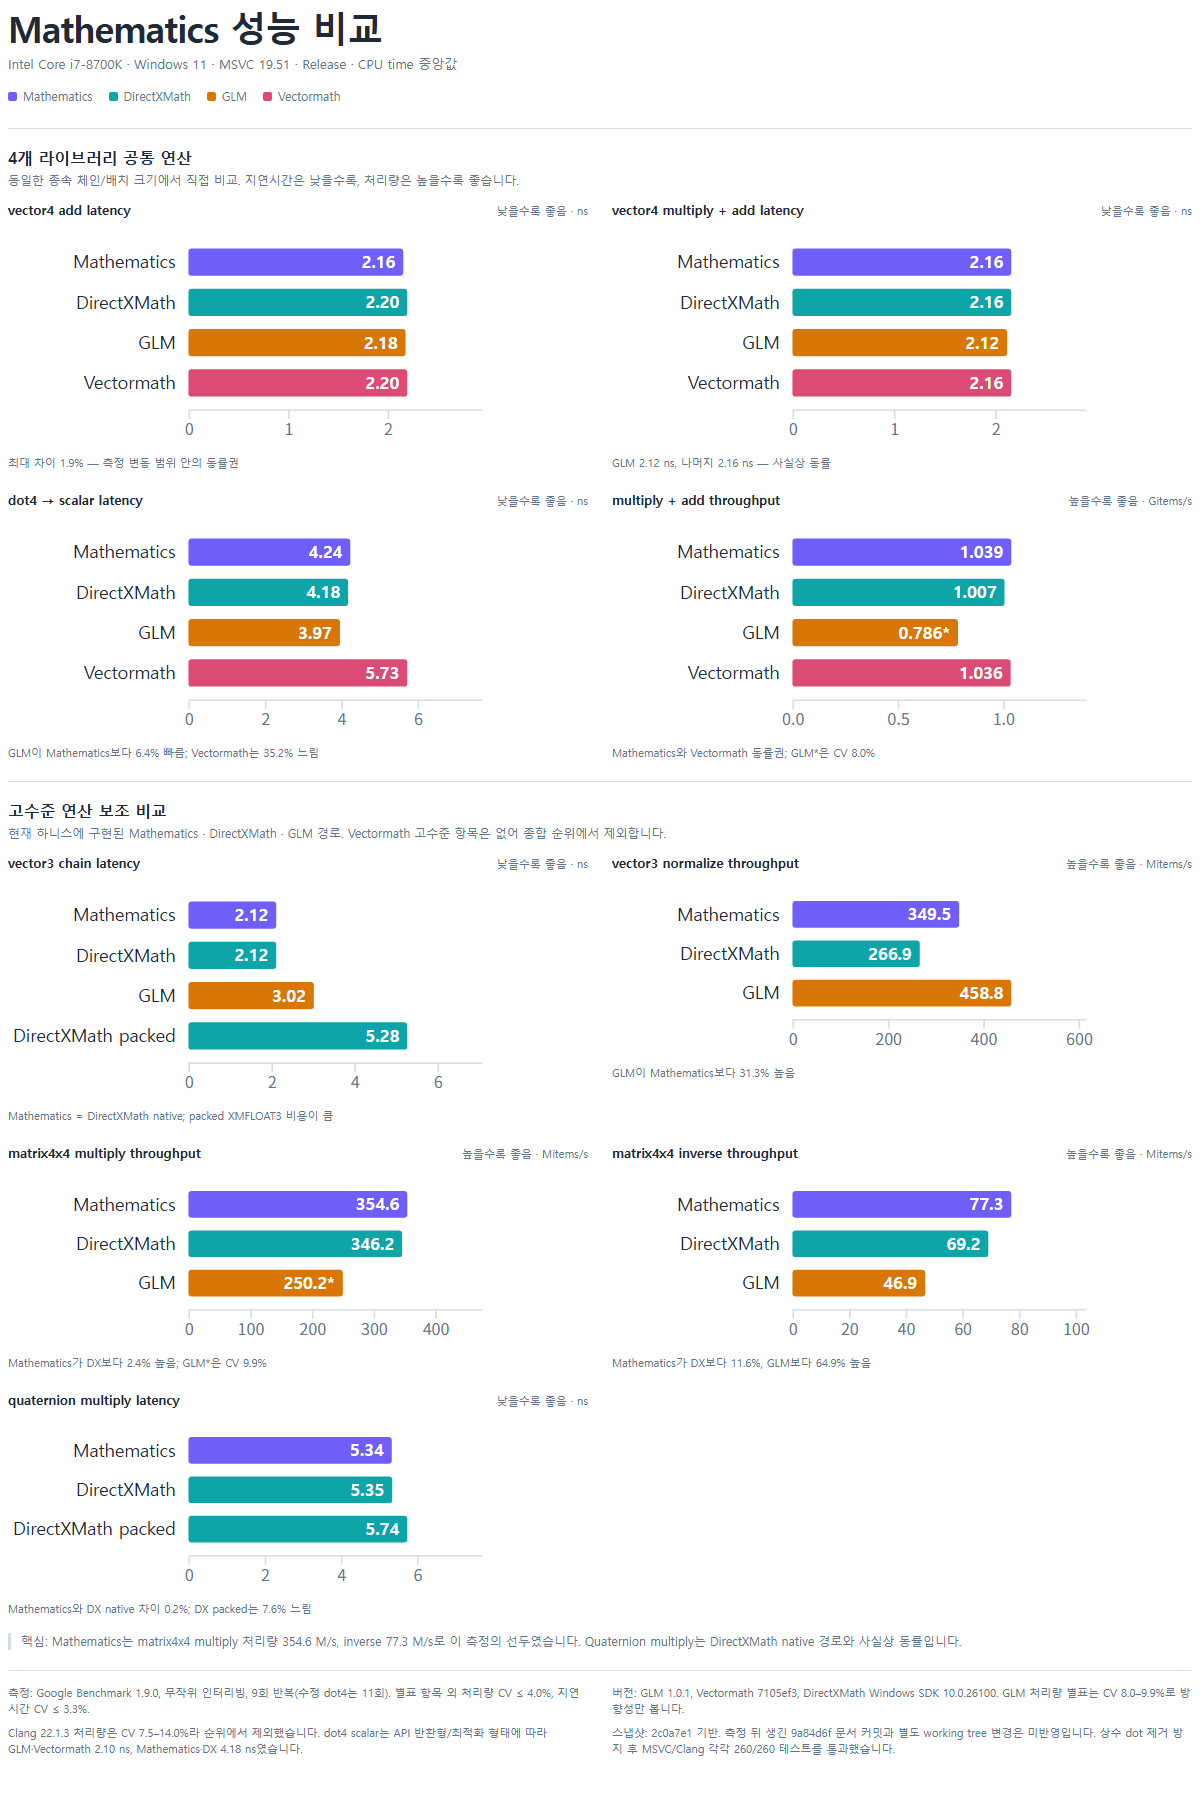
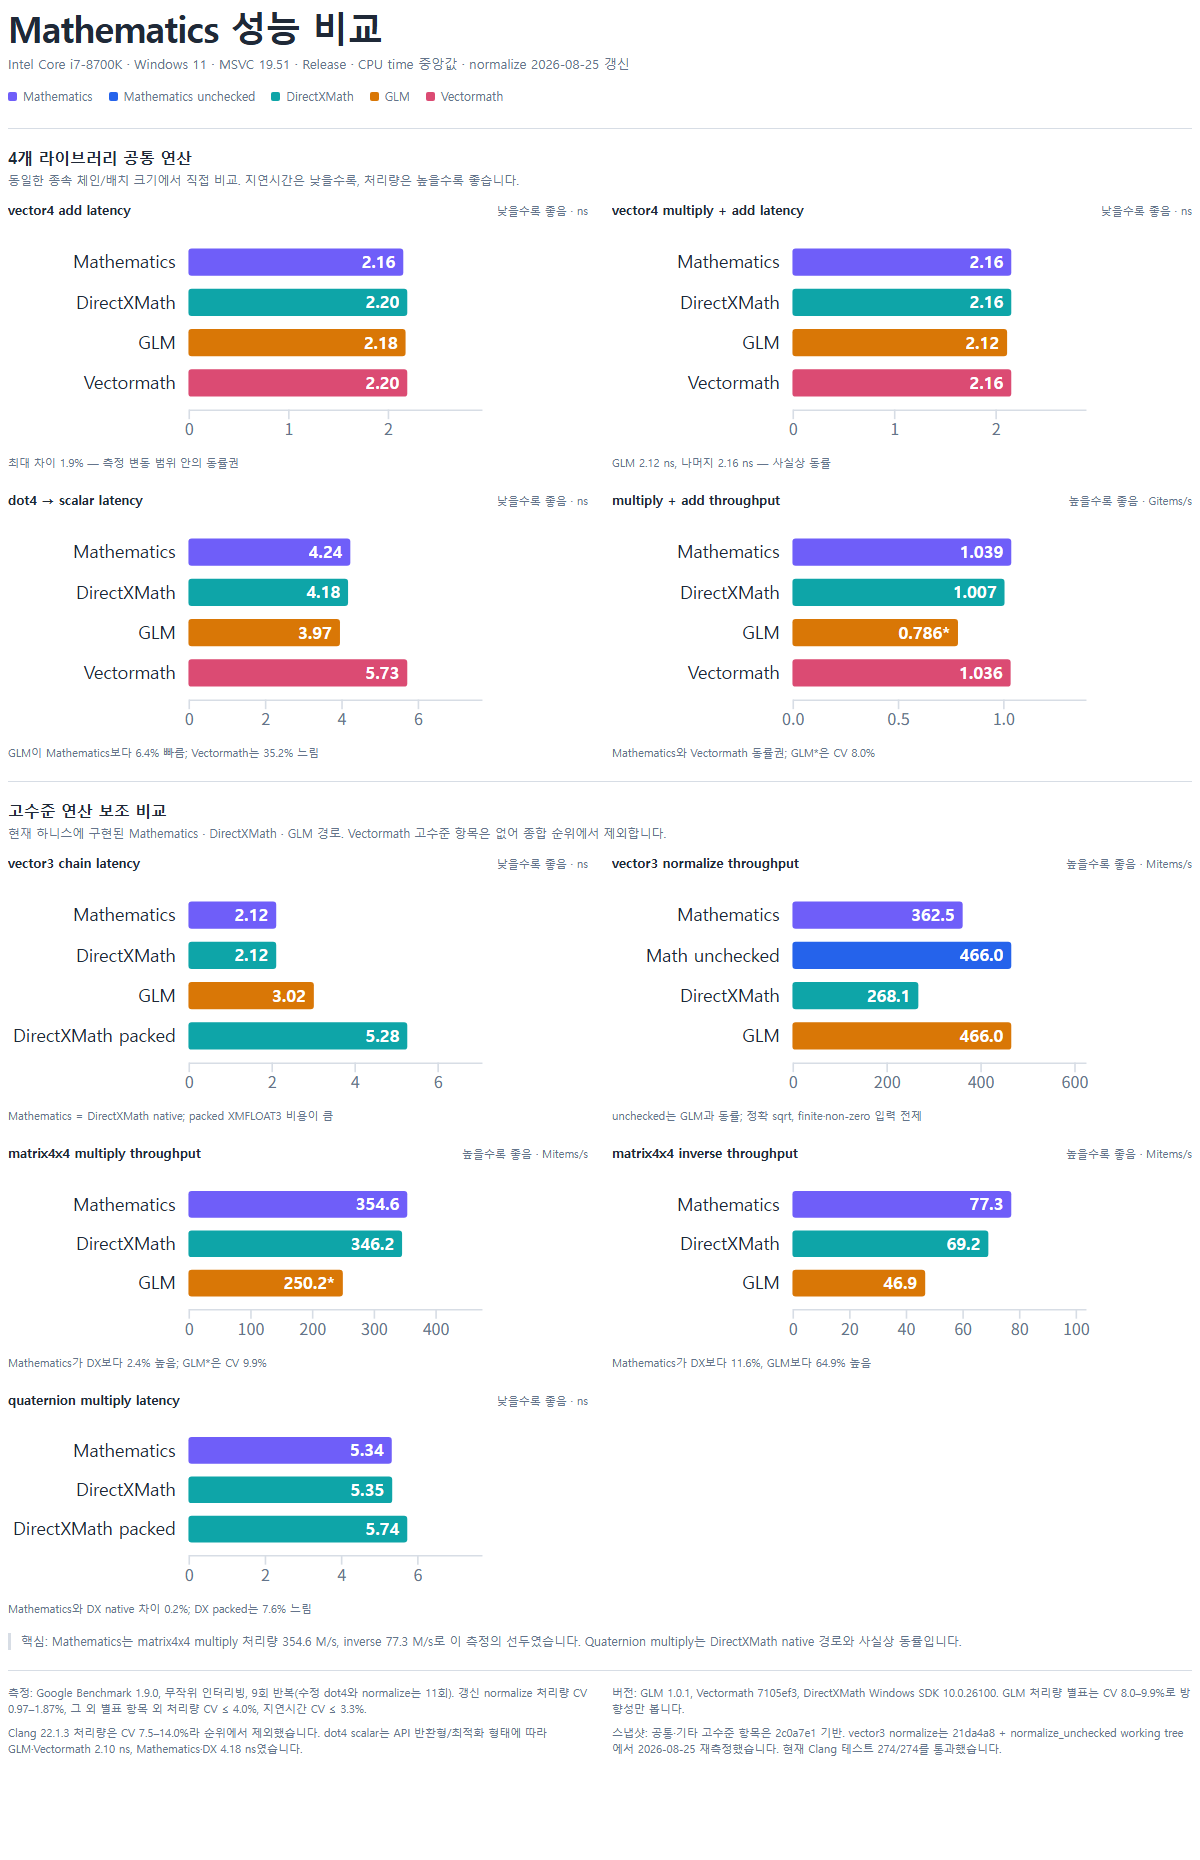
feat: add unchecked vector normalization

diff --git a/tests/vector_geometry_test.cpp b/tests/vector_geometry_test.cpp
@@ -57,6 +57,17 @@ TEST(vector_geometry, normalize_preserves_direction) {
     EXPECT_TRUE(math::near_equal(n, vector3(0.6f, 0.8f, 0.0f)));
 }
 
+TEST(vector_geometry, normalize_unchecked_matches_normalize_for_valid_input) {
+    random_vectors gen(random_seed + 72);
+    for (int n = 0; n < sample_count; ++n) {
+        const vector3 v = random_vector3(gen);
+        const float squared_length = math::length_sq(v);
+        if (!(squared_length > 1e-6f) || !std::isfinite(squared_length)) continue;
+        EXPECT_TRUE(math::near_equal(math::normalize_unchecked(v),
+                                     math::normalize(v), 1e-6f)) << n;
+    }
+}
+
 // The whole reason normalize costs two selects rather than a bare divide.
 TEST(vector_geometry, normalize_of_zero_is_zero_not_na_n) {
     const vector3 n = math::normalize(vector3::zero());
@@ -178,6 +189,9 @@ TEST(vector_geometry, refract_returns_zero_on_total_internal_reflection) {
 // normalize_wide entirely unexercised.
 static_assert(math::normalize(vector2{3, 4}).x == 0.6f);
 static_assert(math::normalize(vector4{0, 0, 3, 4}).w == 0.8f);
+static_assert(math::normalize_unchecked(vector2{3, 4}).x == 0.6f);
+static_assert(math::normalize_unchecked(vector3{0, 3, 4}).z == 0.8f);
+static_assert(math::normalize_unchecked(vector4{0, 0, 3, 4}).w == 0.8f);
 static_assert(math::saturate(vector4{-1, 5, 0.5f, 2}).y == 1.0f);
 static_assert(math::clamp(vector2{-1, 5}, vector2::zero(), vector2::one()).x == 0.0f);
 static_assert(math::reflect(vector4{0, -1, 0, 0}, vector4::unit_y()).y == 1.0f);
@@ -187,6 +201,13 @@ TEST(vector_all_widths, normalize_produces_unit_length) {
                                  vector2(0.6f, 0.8f)));
     EXPECT_NEAR(math::length(math::normalize(vector4(1, 2, 3, 4))), 1.0f, 1e-5f);
     EXPECT_NEAR(math::length(math::normalize(vector2(-7, 11))), 1.0f, 1e-5f);
+}
+
+TEST(vector_all_widths, normalize_unchecked_produces_unit_length) {
+    EXPECT_NEAR(math::length(math::normalize_unchecked(vector2(3, 4))), 1.0f, 1e-5f);
+    EXPECT_NEAR(math::length(math::normalize_unchecked(vector3(1, 2, 3))), 1.0f, 1e-5f);
+    EXPECT_NEAR(math::length(math::normalize_unchecked(vector4(1, 2, 3, 4))), 1.0f,
+                1e-5f);
 }
 
 // The degenerate contract has to hold on the SIMD path too, not just the scalar

diff --git a/include/mathematics/vector_common.hpp b/include/mathematics/vector_common.hpp
@@ -295,6 +295,30 @@ MATHEMATICS_NODISCARD MATHEMATICS_INLINE constexpr vector_type normalize_wide(ve
 
 } // namespace detail
 
+// Exact normalization without degenerate-input handling. The caller guarantees
+// that the squared length is finite and greater than zero. Keeping this separate
+// from normalize() makes the contract visible at hot call sites and lets packed
+// vector2/vector3 values stay in scalar form instead of paying for a register
+// round trip solely to compute their length.
+template <vector_like vector_type>
+MATHEMATICS_NODISCARD MATHEMATICS_INLINE constexpr vector_type
+normalize_unchecked(vector_type v) noexcept {
+    float squared_length = v.x * v.x + v.y * v.y;
+    if constexpr (vector_type::lane_count >= 3) {
+        squared_length += v.z * v.z;
+    }
+    if constexpr (vector_type::lane_count == 4) {
+        squared_length += v.w * v.w;
+    }
+
+    const float inverse_length = 1.0f / detail::scalar_sqrt(squared_length);
+    v.x *= inverse_length;
+    v.y *= inverse_length;
+    if constexpr (vector_type::lane_count >= 3) v.z *= inverse_length;
+    if constexpr (vector_type::lane_count == 4) v.w *= inverse_length;
+    return v;
+}
+
 // Matches DirectXMath at the degenerate ends: a zero vector normalizes to zero
 // rather than to NaN, and an infinite one to NaN. Getting that wrong is a silent
 // source of NaN spreading through a scene graph, so it is worth paying for.

diff --git a/bench/baseline_bench.cpp b/bench/baseline_bench.cpp
@@ -491,6 +491,23 @@ static void bm_mathematics_vector3_normalize_throughput(benchmark::State& state)
 }
 BENCHMARK(bm_mathematics_vector3_normalize_throughput);
 
+static void bm_mathematics_vector3_normalize_unchecked_throughput(
+    benchmark::State& state) {
+    const auto& in = vector3_data();
+    std::vector<math::vector3> out(vector3_batch_size);
+    for (auto _ : state) {
+        benchmark::ClobberMemory();
+        for (int i = 0; i < vector3_batch_size; ++i) {
+            out[static_cast<size_t>(i)] =
+                math::normalize_unchecked(in[static_cast<size_t>(i)]);
+        }
+        benchmark::DoNotOptimize(out.data());
+        benchmark::ClobberMemory();
+    }
+    state.SetItemsProcessed(state.iterations() * vector3_batch_size);
+}
+BENCHMARK(bm_mathematics_vector3_normalize_unchecked_throughput);
+
 #if MATHEMATICS_BENCH_HAS_DXMATH
 static void bm_dx_math_vector3_normalize_throughput(benchmark::State& state) {
     const auto& in = vector3_data();

diff --git a/include/mathematics/vector.hpp b/include/mathematics/vector.hpp
@@ -14,7 +14,7 @@
 //   Comparison   == != (exact), near_equal(a, b, epsilon)
 //   Lane-wise    Abs Min Max Clamp Saturate Lerp
 //   Geometry     dot length length_sq distance distance_sq
-//                normalize normalize_est reflect refract
+//                normalize normalize_unchecked normalize_est reflect refract
 //   vector3      cross
 //   vector2      cross (scalar) perpendicular
 //

diff --git a/docs/EXPRESSIONS.md b/docs/EXPRESSIONS.md
@@ -84,8 +84,10 @@ const vector3 world_position = math::transform_point(local_position, world);
 const vector3 world_forward = math::transform_direction(local_forward, world);
 ```
 
-`normalize(0 벡터)`는 0 벡터를 반환한다. `normalize_est`는 더 빠른 근사 함수지만
-이 보호 동작이 없으므로 입력이 정상적인 비영 벡터임을 보장할 수 있는 핫 패스에서만 쓴다.
+`normalize(0 벡터)`는 0 벡터를 반환한다. `normalize_unchecked`는 정확한 제곱근을
+사용하면서 0·비유한 입력 검사를 생략하므로, 길이제곱이 유한하고 0보다 큰 벡터임을
+보장할 수 있는 핫 패스에서 쓴다. `normalize_est`는 같은 입력 전제에 더해 근사 역제곱근으로
+정밀도를 속도와 맞바꾼다.
 
 ## 스칼라와 각도
 
